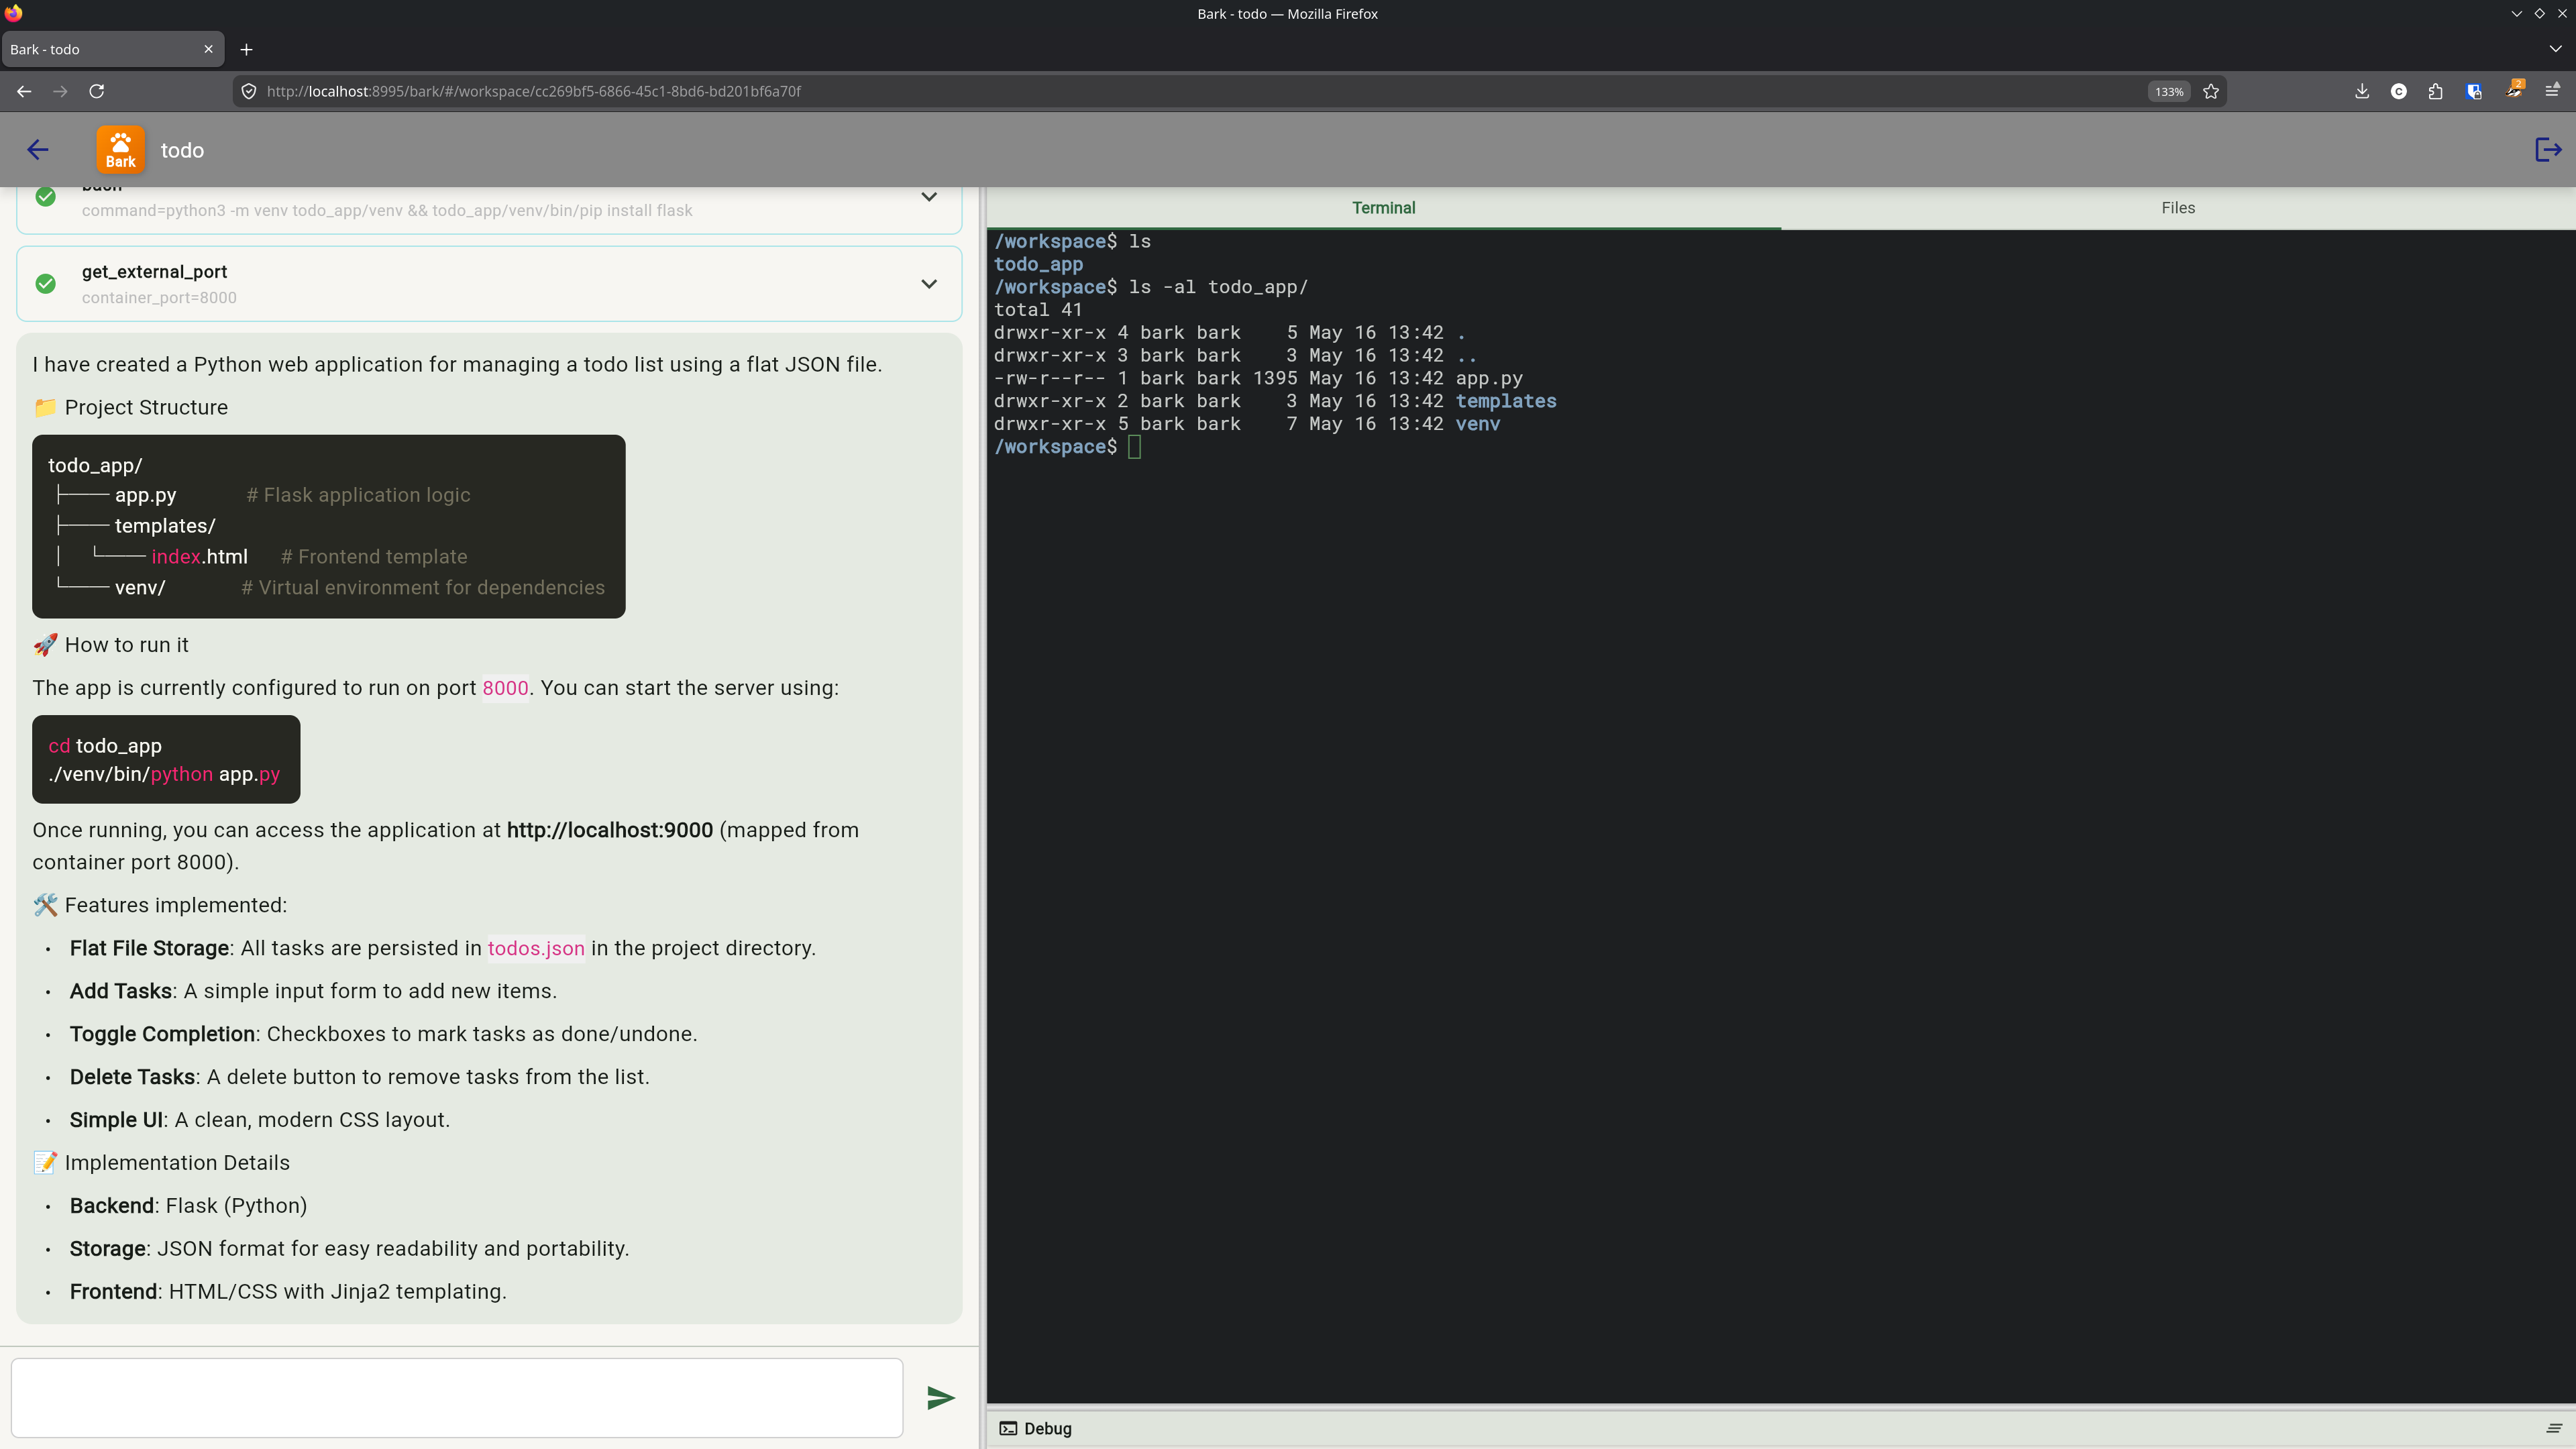
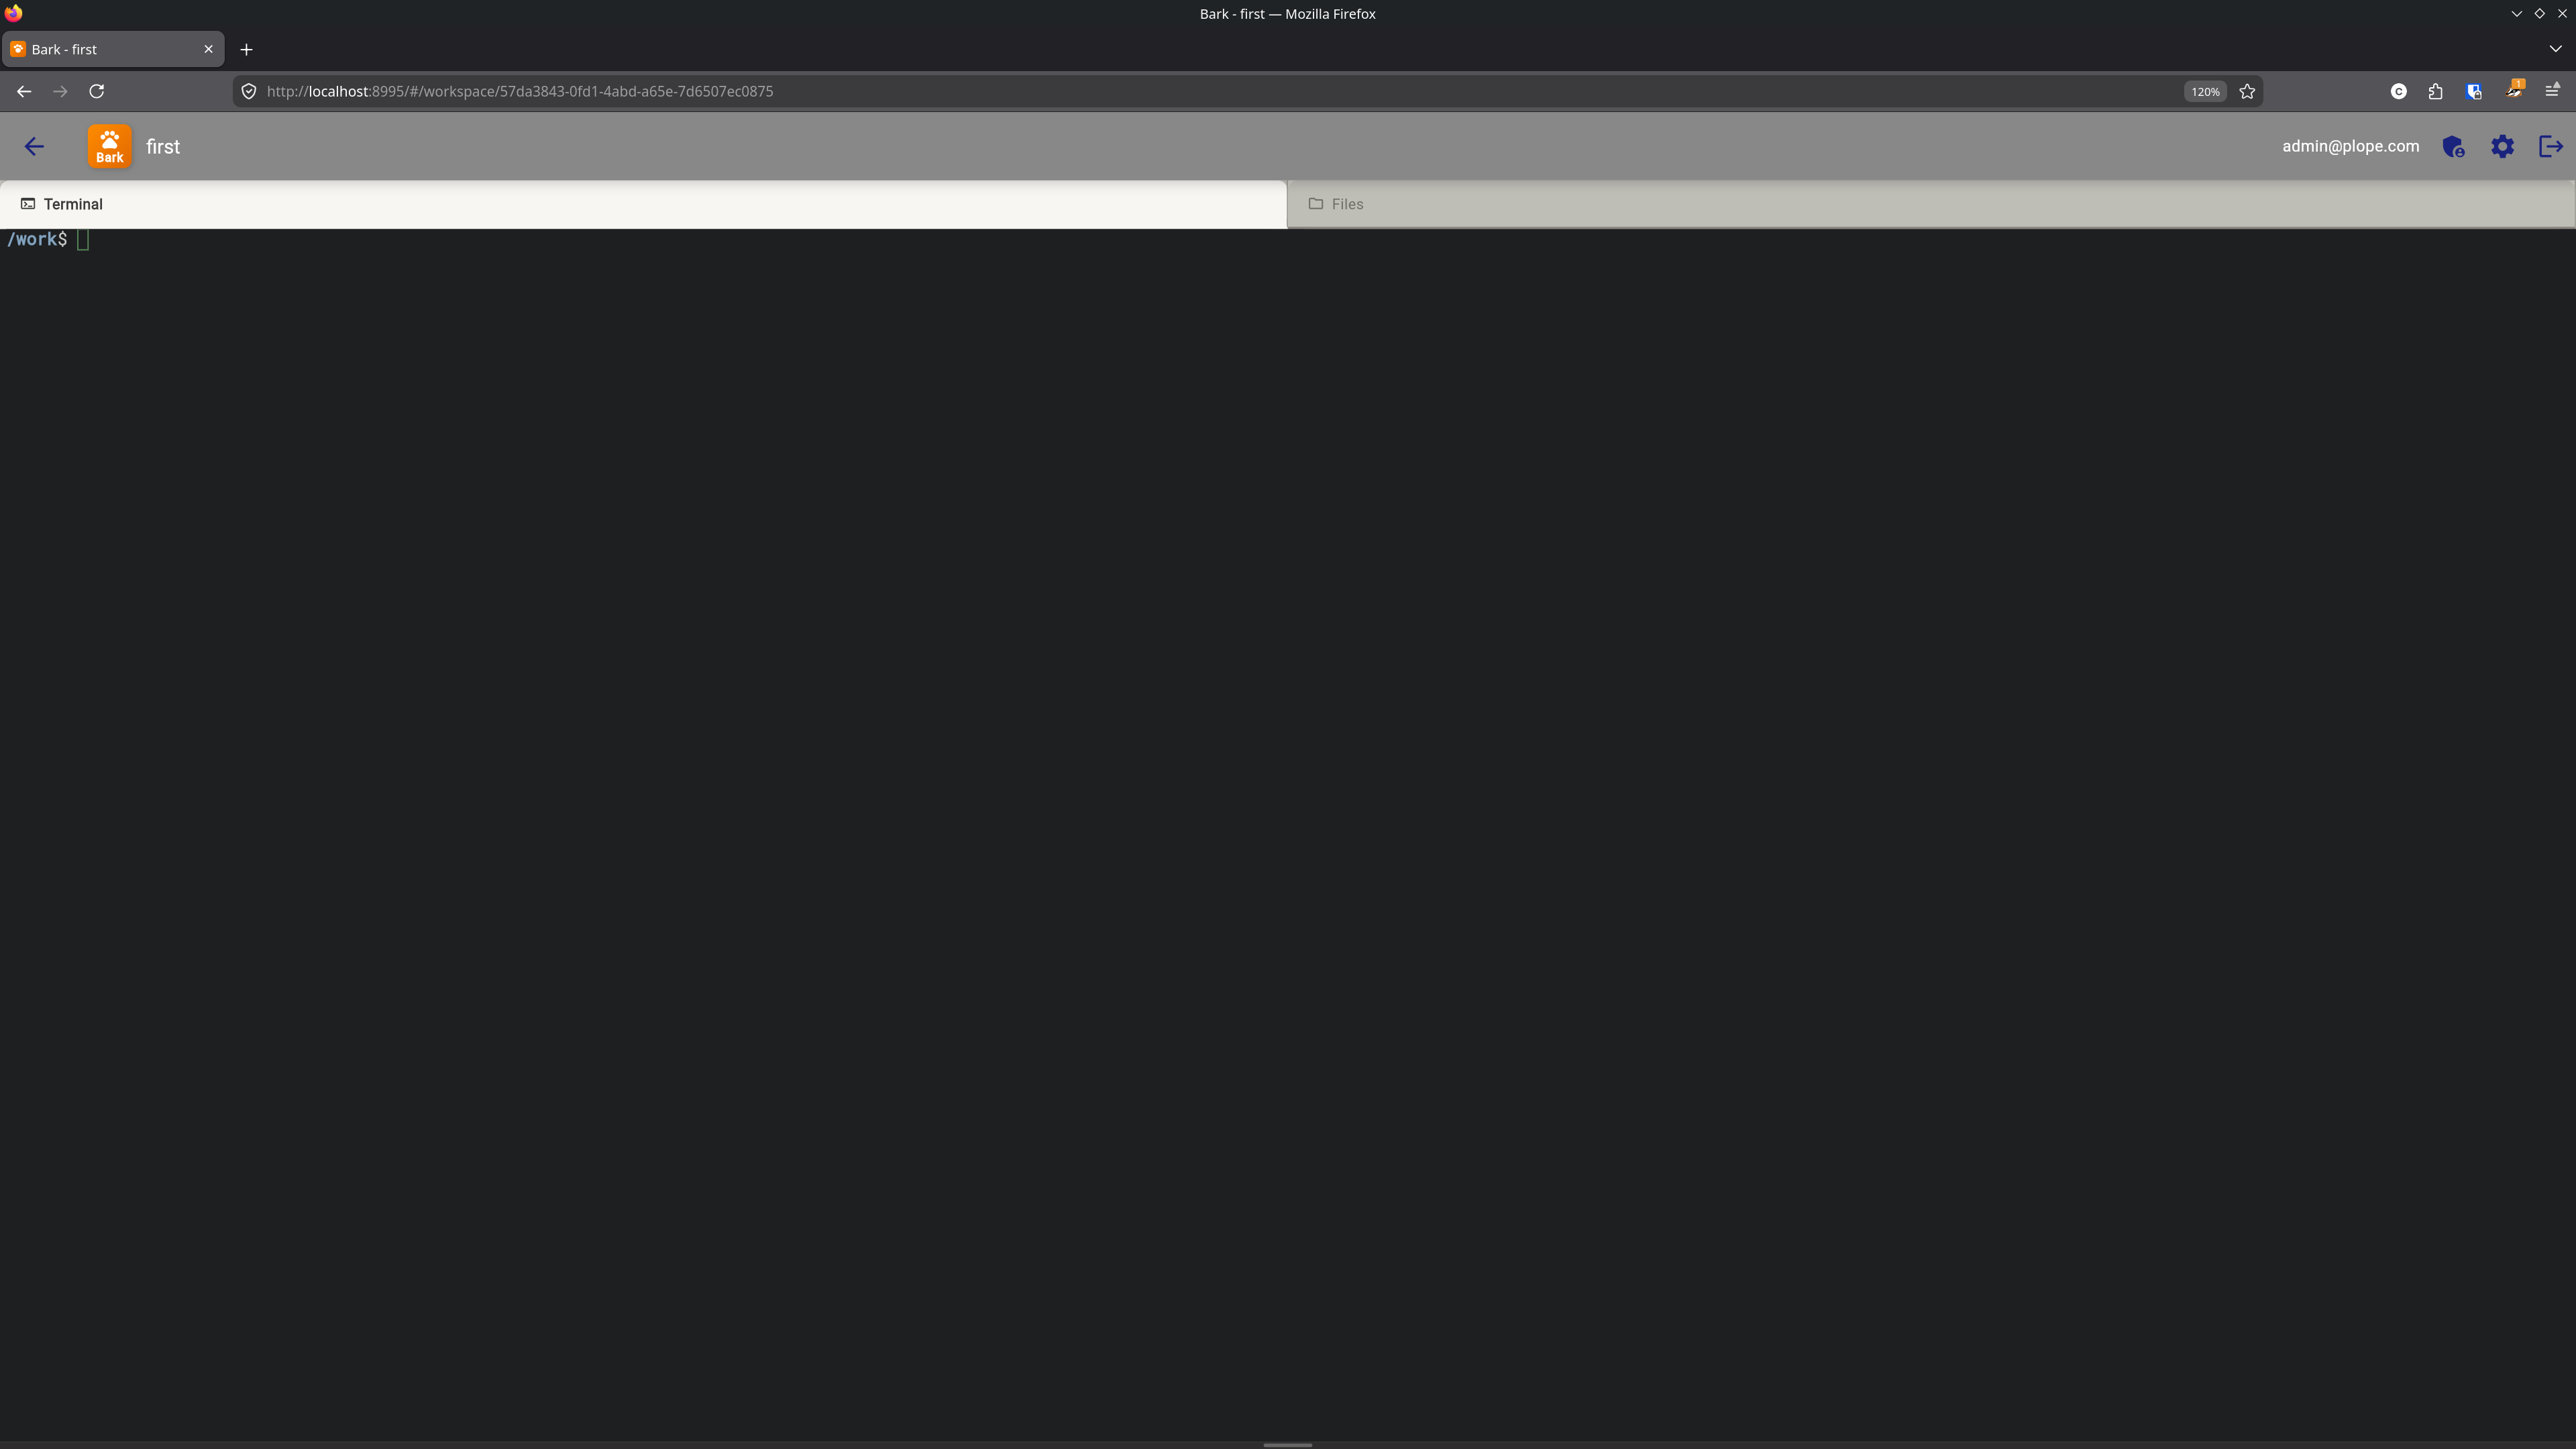
Update screenshot and simplify README

diff --git a/README.md b/README.md
@@ -2,22 +2,21 @@
 
 ![Bark Web Coding Agent](docs/screenshot.png)
 
-A multi-user web coding agent powered by [Pi](https://pi.dev) and any OpenAI-compatible LLM provider (e.g., [Ollama](https://ollama.com) cloud or self-hosted).
+A multi-user web coding agent powered by [Pi](https://pi.dev) and any OpenAI-compatible LLM provider.
 
-Bark gives each user their own isolated coding environment with an AI agent that can write, run, and test code directly. Each workspace runs in a Docker container with Python, Node.js, and C/C++ available.
+Bark gives each user their own isolated coding environment (a "workspace") using a Docker container. `pi` and other tools can be run within a workspace.
 
 ## Quick Start
 
 ### Prerequisites
 
-- [Nix](https://nixos.org/download/) with [devenv](https://devenv.sh/) installed (run `./bootstrap` to install both)
 - Docker daemon running
-- An OpenAI-compatible LLM provider (e.g., [Ollama](https://ollama.com) cloud or self-hosted)
+- An OpenAI-compatible LLM provider (e.g., [Ollama Cloud](https://ollama.com) or self-hosted Ollama)
 
 ### Setup
 
 ```bash
-git clone <repo-url> bark
+git clone [email redacted]/mcdonc/bark
 cd bark
 
 # Create .env with your LLM provider credentials
@@ -42,18 +41,16 @@ EOF
 devenv processes up
 ```
 
-Open [http://localhost:8995](http://localhost:8995) (nginx) and log in with `[email redacted]` (or whatever you set `BARK_DEFAULT_USER` to). If you set `BARK_DEFAULT_PASSWORD` in `.env`, use that password. Otherwise, check the server log output for the generated password. The default user has the admin role and can manage other users at `/admin/users`.
+Open [http://localhost:8995](http://localhost:8995) and log in with `[email redacted]` (or whatever you set `BARK_DEFAULT_USER` to). If you set `BARK_DEFAULT_PASSWORD` in `.env`, use that password. Otherwise, check the server log output for the generated password. The default user has the admin role and can manage other users at `/admin/users`.
 
 ### What You Can Do
 
 1. **Create a workspace** — each workspace is an isolated coding environment
-2. **Chat with the AI agent** — ask it to write code, create projects, fix bugs
-3. **The agent writes files directly** — no copy-paste needed
-4. **The agent runs and tests code** — it has shell access inside the container
-5. **View files** in the file viewer panel, drag-and-drop files or folders to upload, right-click to download, rename, or delete
-6. **Use the terminal** for direct shell access to the container (bash with tab completion and colors)
-7. **Monitor activity** in the debug panel
-8. **Manage users** (admin only) — add, edit, delete users and toggle admin roles
+2. **View files** in the file viewer panel, drag-and-drop files or folders to upload, right-click to download, rename, or delete
+3. **Use the terminal** for direct shell access to the container (bash with tab completion and colors)
+4. **Monitor activity** in the debug panel
+5. **Manage users** (admin only) — add, edit, delete users and toggle admin roles
+6. **Chat with the AI agent** — execute "pi" in the terminal, then ask it to write code, create projects, fix bugs
 
 ### CLI Access
 
@@ -139,18 +136,6 @@ devenv up                                # builds and starts
 ```
 
 Sample plugins (celebrate, beep, pig-latin, word-count) are included in the generated template. Sample plugin source lives in `plugins/` in this repo.
-
-Each plugin directory can contain:
-
-| File                   | Purpose                                                           |
-| ---------------------- | ----------------------------------------------------------------- |
-| `extension.ts`         | Pi extension (TypeScript) — registered as an LLM-callable tool    |
-| `dart/lib/plugin.dart` | Dart plugin class — handles client-side execution and optional UI |
-| `dart/lib/*.dart`      | Supporting Dart files (widgets, utilities)                        |
-| `dart/pubspec.yaml`    | Dart package definition, depends on `bark_plugin_api`             |
-| `tools/`               | Server-side scripts copied into the Docker image                  |
-
-**Client-side plugins** use Pi's Extension UI Sub-Protocol to delegate execution to the browser. This enables tools that need browser authentication (e.g., Soliplex cookies) or browser-native capabilities (audio, animations).
 
 See [ARCHITECTURE.md](ARCHITECTURE.md) for detailed architecture and feature documentation.
 